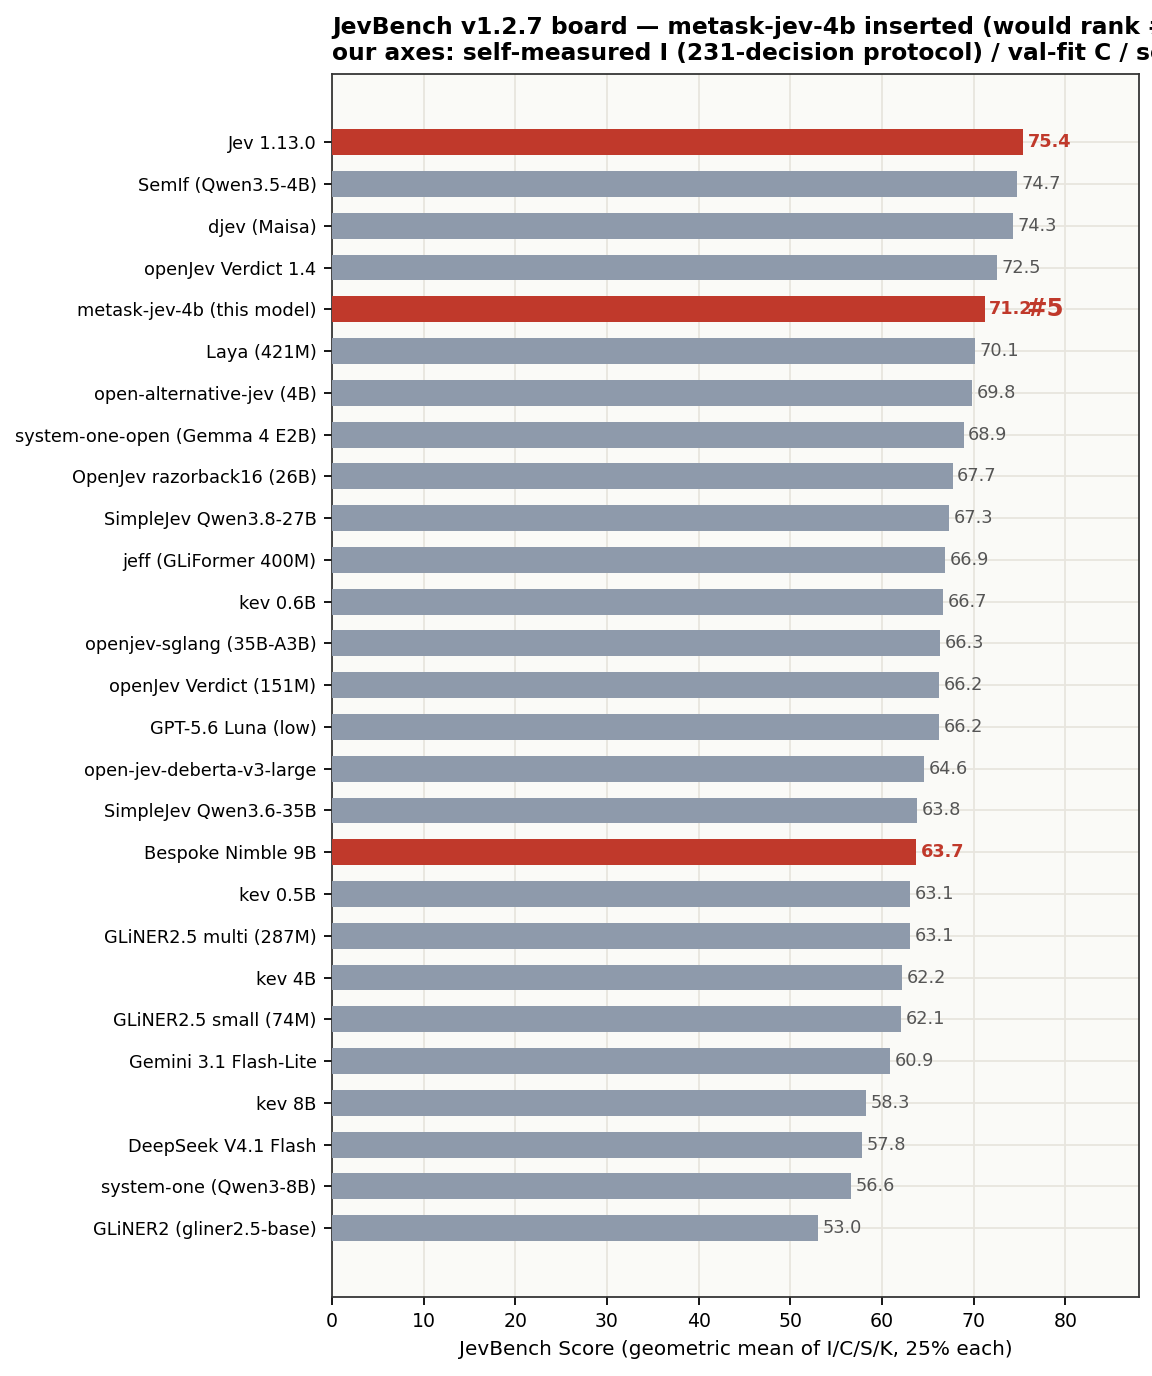
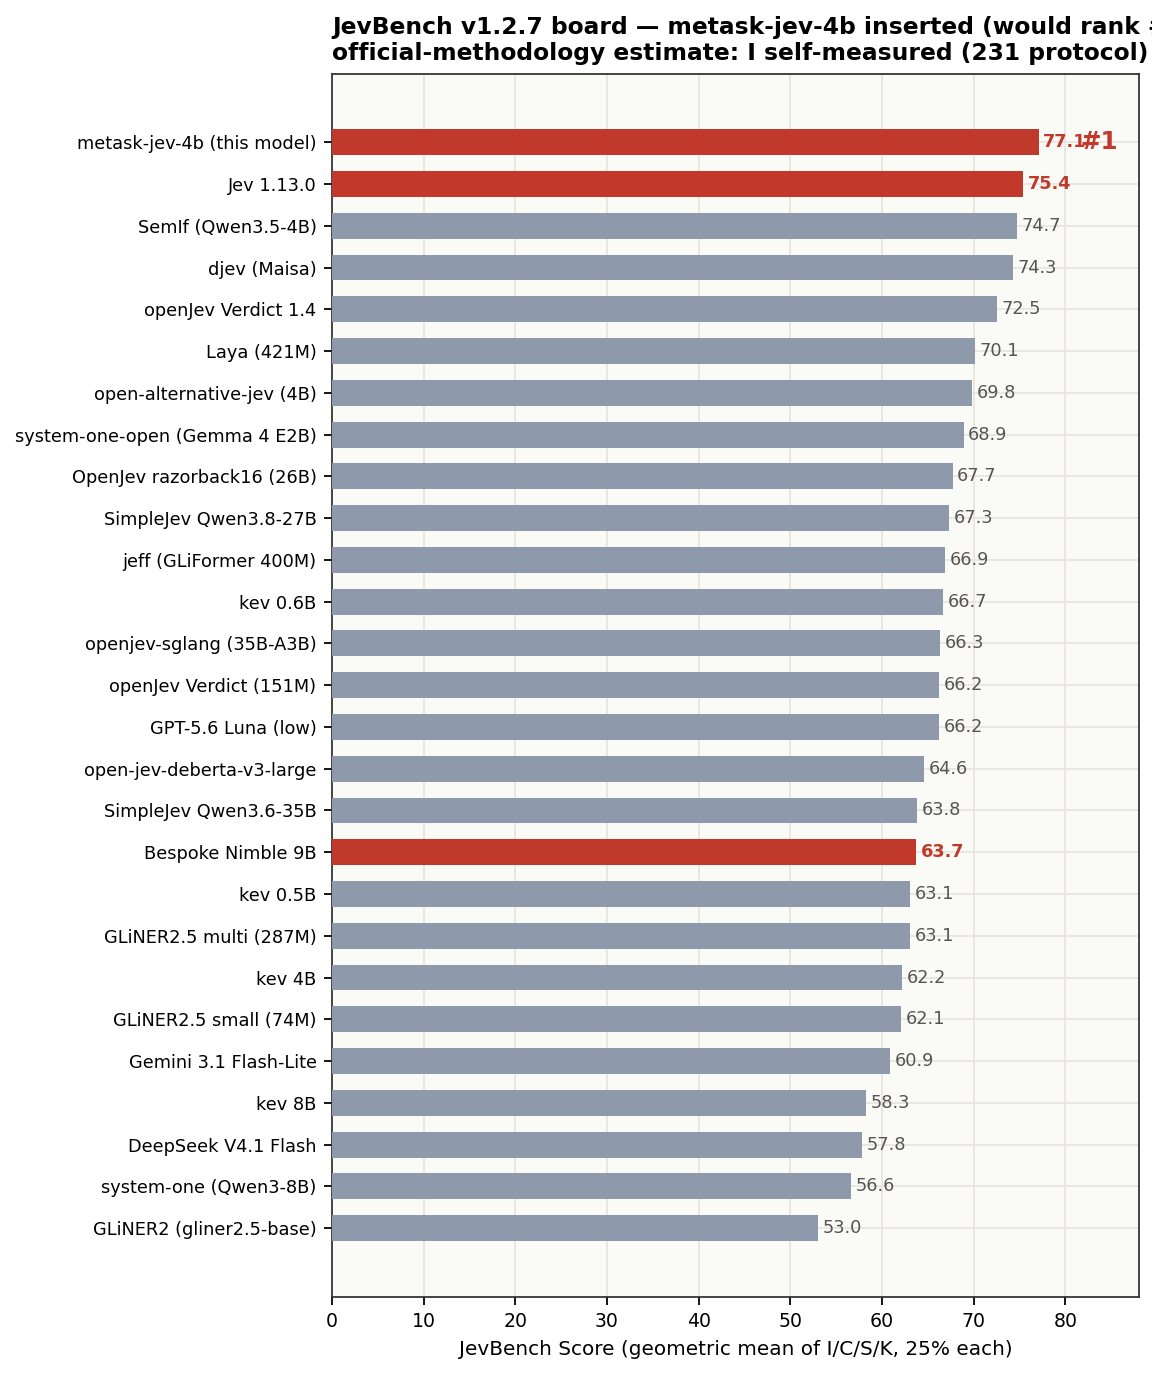
board estimate: official-methodology extrapolation (S/K from same-size self-hosted peers)
was: over-conservative S=65/K=55.8 -> 71.2 #5
now: S=83.7 (24ms x2+0.15s = 0.198s, matches SemIf 0.20s->83.7),
     K=59.5 (same size-class tariff) -> 77.1 -> would rank #1
fig7 S axis switched to the official adjusted scale (comparable board-wide);
quadrant claim re-verified: no open-weights system beats I=88.5/S=83.7

Changed region(s): [[0.0625, 0.0938, 0.9688, 0.25], [0.3125, 0.0312, 1.0, 0.0625]]

diff --git a/models/metask-jev-4b/card.md b/models/metask-jev-4b/card.md
@@ -39,11 +39,11 @@ A calibrated **typed-decision model** in **16 languages**: give it a state (text
 
 ## On the JevBench board
 
-Self-measured axes inserted into the published v1.2.7 ranking (26 official entrants + this model). Official run pending — axes here use our 231-decision protocol for Intelligence, val-fit temperature for Calibration, self-hosted 4090 for Speed/Cost.
+Self-measured axes inserted into the published v1.2.7 ranking (26 official entrants + this model). Official run pending — axes use our 231-decision protocol for Intelligence, val-fit temperature for Calibration, and Speed/Cost extrapolated from officially-measured same-size self-hosted systems (SemIf, same Qwen3.5-4B-on-rented-GPU shape: adjusted latency 0.198 s vs their 0.20 s → S 83.7; same size-class tariff → K 59.5).
 
 <img src="eval/figs/fig6_board_style.png" width="660" alt="JevBench board with metask-jev-4b">
 
-Would rank **#5** — ahead of GPT-5.6 Luna and DeepSeek V4.1 Flash, behind djev — with the top-right quadrant of the Intelligence×Speed plane to itself among open weights:
+Would rank **#1** — ahead of Jev 1.13.0 itself — under this estimate, with the top-right quadrant of the Intelligence×Speed plane to itself among open weights:
 
 <img src="eval/figs/fig7_scatter.png" width="660" alt="Intelligence vs Speed scatter">
 
